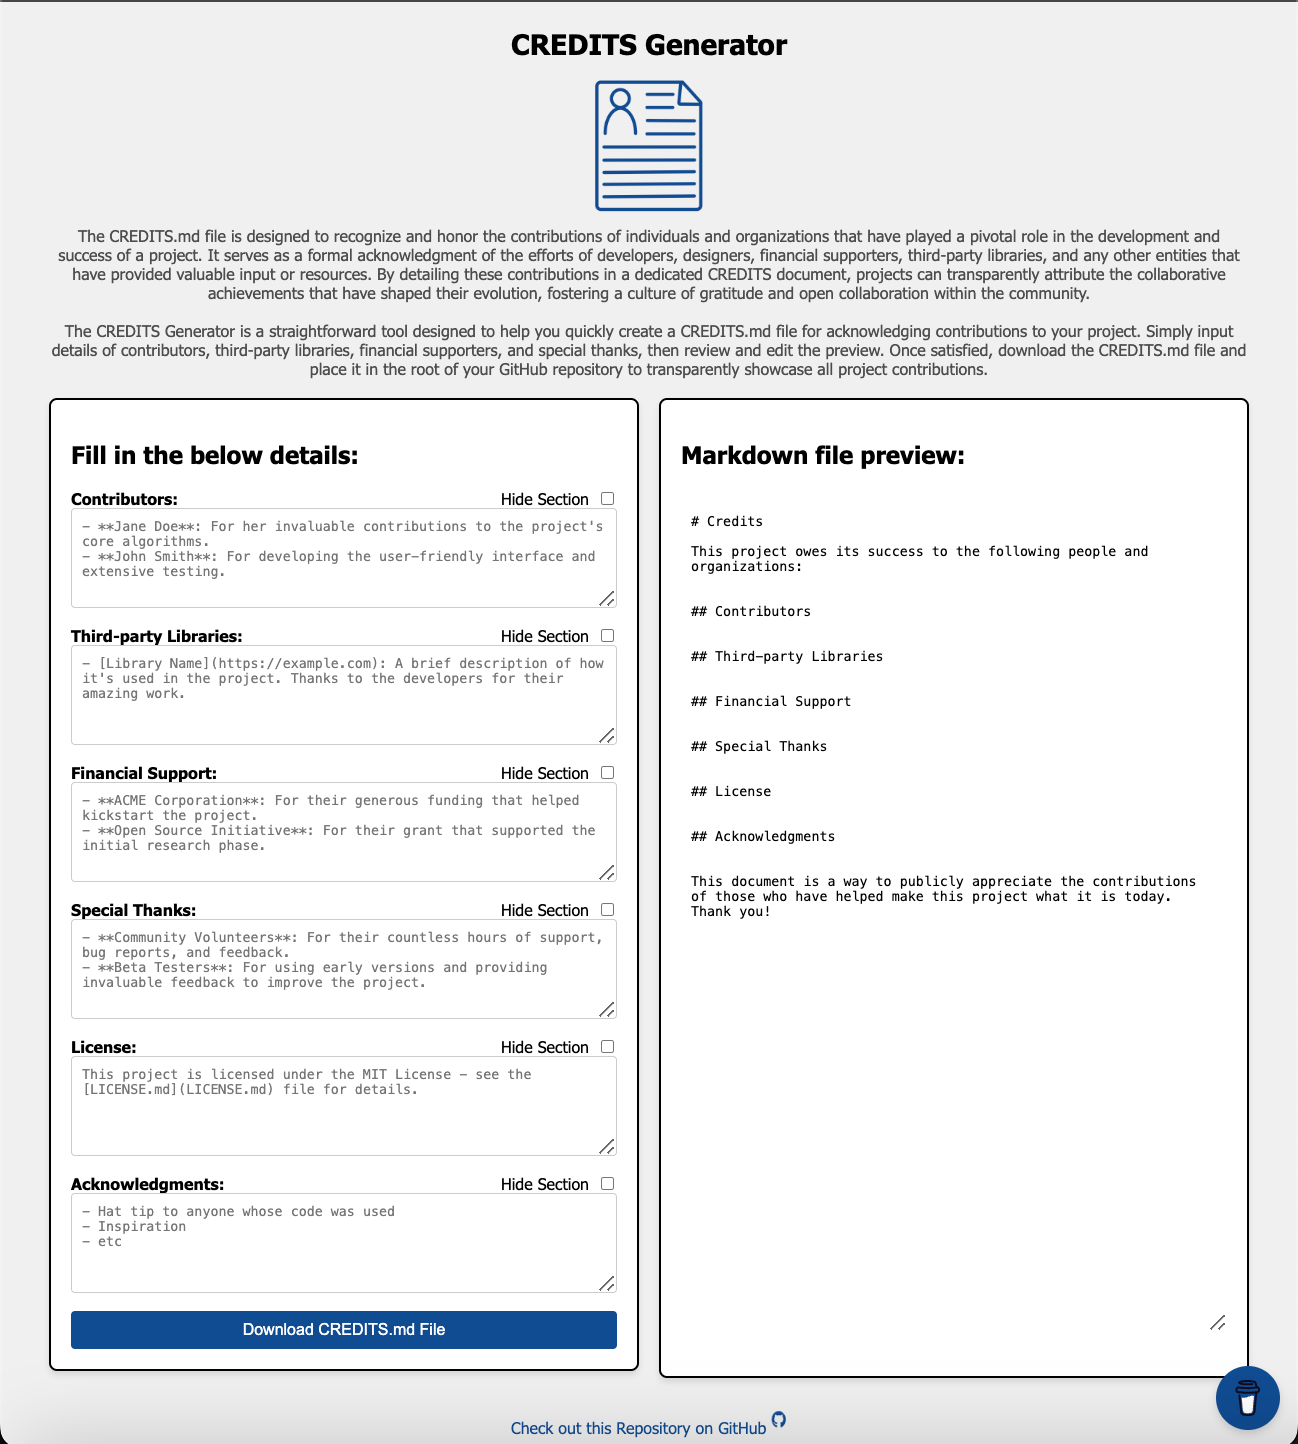
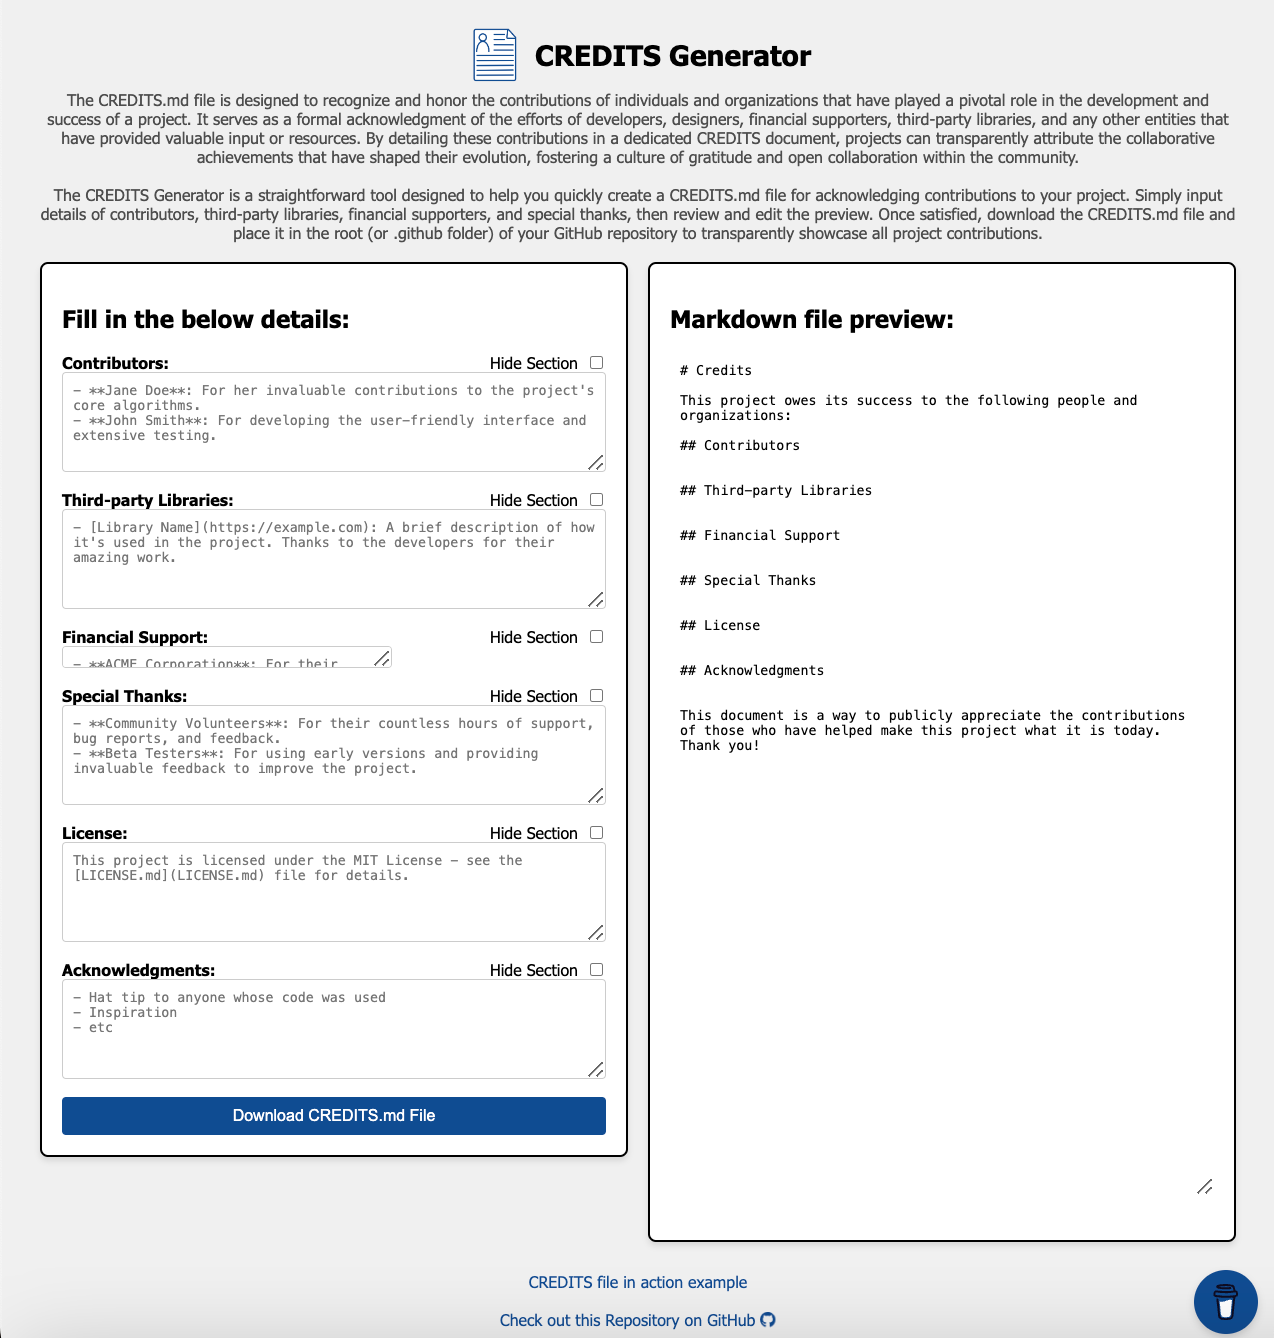
Update application

Changed region(s): [[0.0306, 0.0, 1.0, 1.0], [0.7347, 0.3677, 0.8878, 0.3984], [0.3673, 0.7048, 0.4592, 0.7661]]

diff --git a/src/routes/+page.svelte b/src/routes/+page.svelte
@@ -53,8 +53,10 @@ This document is a way to publicly appreciate the contributions of those who hav
   }
 </script>
 
-<div class="title">CREDITS Generator</div>
-<img src="icon.png" alt="Credits Icon" class="title-icon">
+<div class="title-container">
+  <img src="icon.png" alt="Credits Icon" class="title-icon">
+  <div class="title">CREDITS Generator</div>
+</div>
 <div class="subtitle">
   The CREDITS.md file is designed to recognize and honor the contributions of
   individuals and organizations that have played a pivotal role in the
@@ -71,7 +73,7 @@ This document is a way to publicly appreciate the contributions of those who hav
   a CREDITS.md file for acknowledging contributions to your project. Simply input
   details of contributors, third-party libraries, financial supporters, and special
   thanks, then review and edit the preview. Once satisfied, download the CREDITS.md
-  file and place it in the root of your GitHub repository to transparently showcase
+  file and place it in the root (or .github folder) of your GitHub repository to transparently showcase
   all project contributions.
 </div>
 <div class="container">
@@ -200,7 +202,7 @@ This document is a way to publicly appreciate the contributions of those who hav
   </div>
   <div class="preview">
     <h2>Markdown file preview:</h2>
-    <textarea class="markdown-preview" bind:value={$markdownContent}></textarea>
+    <textarea id="markdown-preview-text" class="markdown-preview" bind:value={$markdownContent}></textarea>
   </div>
 </div>
 
@@ -215,9 +217,16 @@ This document is a way to publicly appreciate the contributions of those who hav
     align-items: center; /* Centers the children horizontally */
   }
 
+  .title-container {
+    display: flex;
+    align-items: center; /* This will vertically center align the icon with the title */
+  }
+
   .title-icon {
-    width: 150px; /* Adjust based on your image's size */
-    height: 150px; /* Adjust based on your image's size */
+    margin-right: 10px; /* Adjust the space between the icon and the title */
+    /* You can adjust the size of the icon as needed */
+    width: 60px; /* Adjust based on your image's size */
+    height: 60px; /* Adjust based on your image's size */
     padding: 5px 0; /* Adds padding instead of margin to space out the title */
   }
 
@@ -334,7 +343,7 @@ This document is a way to publicly appreciate the contributions of those who hav
 
   :global(footer) {
     text-align: center;
-    margin-top: 40px;
+    margin-top: 30px;
   }
 
   :global(footer a) {
@@ -342,14 +351,33 @@ This document is a way to publicly appreciate the contributions of those who hav
     text-decoration: none;
   }
 
+  :global(footer a:visited) {
+    color: #0e4c92;
+  }
+
   :global(footer a:hover) {
     text-decoration: underline;
   }
 
   @media (max-width: 768px) {
+
+    :global(footer) {
+      text-align: center;
+      margin-top: 30px;
+      margin-right: 65px;
+    }
+
     :global(body) {
       padding: 15px; /* Reduced padding on smaller screens */
     }
+
+    .title-container {
+      display: flex;
+      align-items: center;
+      justify-content: center;
+      width: 50%; 
+    }
+
     .container {
       flex-direction: column;
       width: 100%; /* Use 100% width for mobile to ensure full width is utilized */

diff --git a/src/app.html b/src/app.html
@@ -28,6 +28,9 @@
 		<div style="display: contents">%sveltekit.body%</div>
 	</body>
 	<footer>
+		<a href="https://github.com/scottgriv/CREDITS-Generator" target="_blank" rel="noreferrer">CREDITS file in action example</i></a>
+		<br>
+		<br>
         <a href="https://github.com/scottgriv/CREDITS-Generator" target="_blank" rel="noreferrer">Check out this Repository on GitHub <i class="fa-brands fa-github fa-bounce"></i></a>
     </footer>    
 </html>

diff --git a/README.md b/README.md
@@ -1,21 +1,20 @@
 <!-- Begin README -->
 
 <div align="center">
-    <a href="https://github.com/scottgriv/CREDITS-Generator" target="_blank">
-        <picture>
-            <source media="(prefers-color-scheme: dark)" srcset="./docs/images/icon-dark.png">
-            <source media="(prefers-color-scheme: light)" srcset="./docs/images/icon-light.png">
-            <img alt="Icon" src="./docs/images/icon-dark.png" width="207" height="207">
-        </picture>
+    <a href="https://scottgriv.github.io/Binary-Converter" target="_blank">
+        <img src="./docs/images/icon.png" width="200" height="200"/>
     </a>
 </div>
 <br>
 <p align="center">
+    <a href="https://svelte.dev/"><img src="https://img.shields.io/badge/Svelte-3.55.0-FF3E00?style=for-the-badge&logo=svelte" alt="Svelte Badge" /></a>
+    <a href="https://nodejs.org/en/"><img src="https://img.shields.io/badge/Node.js-16.13.2-339933?style=for-the-badge&logo=node.js" alt="Node.js Badge" /></a>
     <br>
     <a href="https://github.com/scottgriv"><img src="https://img.shields.io/badge/github-follow_me-181717?style=for-the-badge&logo=github&color=181717" alt="GitHub Badge" /></a>
     <a href="mailto:scott.grivner@gmail.com"><img src="https://img.shields.io/badge/gmail-contact_me-EA4335?style=for-the-badge&logo=gmail" alt="Email Badge" /></a>
     <a href="https://www.buymeacoffee.com/scottgriv"><img src="https://img.shields.io/badge/buy_me_a_coffee-support_me-FFDD00?style=for-the-badge&logo=buymeacoffee&color=FFDD00" alt="BuyMeACoffee Badge" /></a>
     <br>
+    <a href="https://github.com/scottgriv/CREDITS-Generator/actions/workflows/gh-pages.yml" target="_blank"><img alt="GitHub Workflow Status (with event)" src="https://img.shields.io/github/actions/workflow/status/scottgriv/CREDITS-Generator/gh-pages.yml?style=for-the-badge&logo=github&label=GitHub%20Pages"></a>
[1 lines of base64/hex data omitted]
 </p>
 
@@ -23,11 +22,26 @@
 
 <h1 align="center">CREDITS Generator</h1>
 
+The `CREDITS.md` file is designed to recognize and honor the contributions of individuals and organizations that have played a pivotal role in the development and success of a project. It serves as a formal acknowledgment of the efforts of developers, designers, financial supporters, third-party libraries, and any other entities that have provided valuable input or resources. By detailing these contributions in a dedicated `CREDITS.md` document, projects can transparently attribute the collaborative achievements that have shaped their evolution, fostering a culture of gratitude and open collaboration within the community.
+
+The **CREDITS Generator** is a straightforward tool designed to help you quickly create a `CREDITS.md` file for acknowledging contributions to your project. Simply input details of contributors, third-party libraries, financial supporters, and special thanks, then review and edit the preview. Once satisfied, download the `CREDITS.md` file and place it in the root (or .github folder) of your GitHub repository to transparently showcase all project contributions.
+- Built using **SvelteKit**.
+- View a demo of the project on GitHub Pages **[Here](https://scottgriv.github.io/CREDITS-Generator)**.
+
+<div align="center">
+    <a href="https://scottgriv.github.io/CREDITS-Generator" target="_blank">
+        <img src="./docs/images/demo.png" style="width: 75%;"/>
+    </a>
+    <br>
+    <i>Application Preview</i>
+</div>
+
 ---------------
 
 ## Table of Contents
 
 - [Background Story](#background-story)
+- [How this Works](#how-this-works)
 - [Getting Started](#getting-started)
 - [Resources](#resources)
 - [License](#license)
@@ -35,9 +49,50 @@
 
 ## Background Story
 
+I wanted a quick and easy way to generate a `CREDITS.md` file for my GitHub projects, without having to paste a template over and over again; I couldn't find a generator online, so I built my own!
+
+Feel free to fork and contribute!
+
+## How this Works
+
+1. Visit the website, and enter the relevant information.
+2. Click "Download CREDITS.md File" to your local.
+3. Place the markdown file in the root (or .github folder) or `docs` folder of your repository.
+
 ## Getting Started
 
+If you want to download a copy of this application:
+
+1. Clone the repo to your local.
+2. In a terminal, point towards the root of this application.
+3. Build the application:
+
+```shell
+npm run build
+```
+
+4. Run the application:
+
+```shell
+npm run dev
+```
+
+5. Visit the website on your localhost, i.e. http://localhost:5173/CREDITS-Generator.
+6. Follow the instructions above in [How this Works](#how-this-works) to generate your `CREDITS.md` file.
+
 ## Resources
+
+- [Example Credits File # 1](https://github.com/scottgriv/PRG-Personal-Repository-Guidelines/blob/ece049c6078b20d605913ee8603c229239ef4ef9/.github/CREDITS.md) - Example of a `CREDITS.md` file generated by this application for another project of mine.
+- [Example Credits File # 2](https://github.com/10up/Open-Source-Best-Practices/blob/gh-pages/CREDITS.md) - General example of a `CREDITS.md` file.
+- [Svelte](https://svelte.dev/) - The official Svelte website.
+- [Node.js](https://nodejs.org/en/) - Node.js is a JavaScript runtime built on Chrome's V8 JavaScript engine (used by Svelte for development).
+- [Rollup](https://rollupjs.org) - Rollup is a module bundler for JavaScript which compiles small pieces of code into something larger and more complex, such as a library or application (used by Svelte for building).
+- [degit](https://github.com/Rich-Harris/degit) - degit is a scaffolding tool that allows you to clone a git repository without the entire git history (used by Svelte for project creation).
+- [sirv](https://github.com/lukeed/sirv) - sirv is a lightweight server that allows you to serve static files (used by Svelte for development).
+- [Visual Studio Code](https://code.visualstudio.com/) - VS Code is a free code editor from Microsoft.
+- [Svelte for VS Code](https://marketplace.visualstudio.com/items?itemName=svelte.svelte-vscode) - Svelte for VS Code is an extension that provides syntax highlighting, code completion, and other features for Svelte.
+- [SvelteKit](https://kit.svelte.dev/) - SvelteKit is a framework for building web applications of all sizes, with a beautiful development experience and flexible filesystem-based routing.
+- [SvelteFire](https://github.com/codediodeio/sveltefire) - SvelteFire is a collection of official Svelte bindings for Firebase. It includes bindings for Firebase Authentication, Cloud Firestore, Realtime Database, Storage, and Cloud Messaging. It also includes a collection of utilities for working with Firebase and Svelte.
 
 ## License
 
